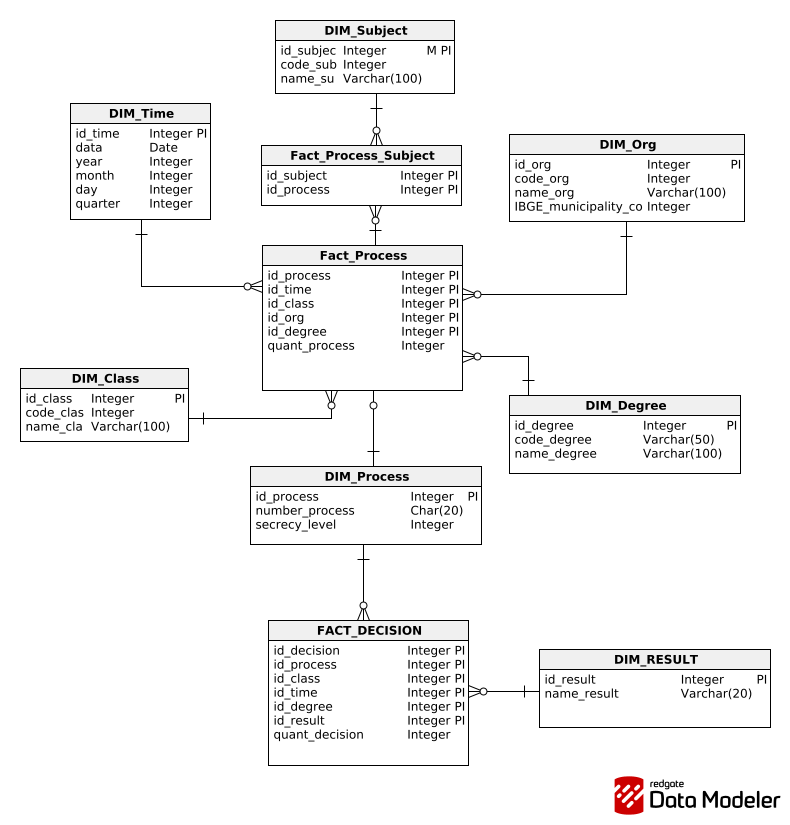
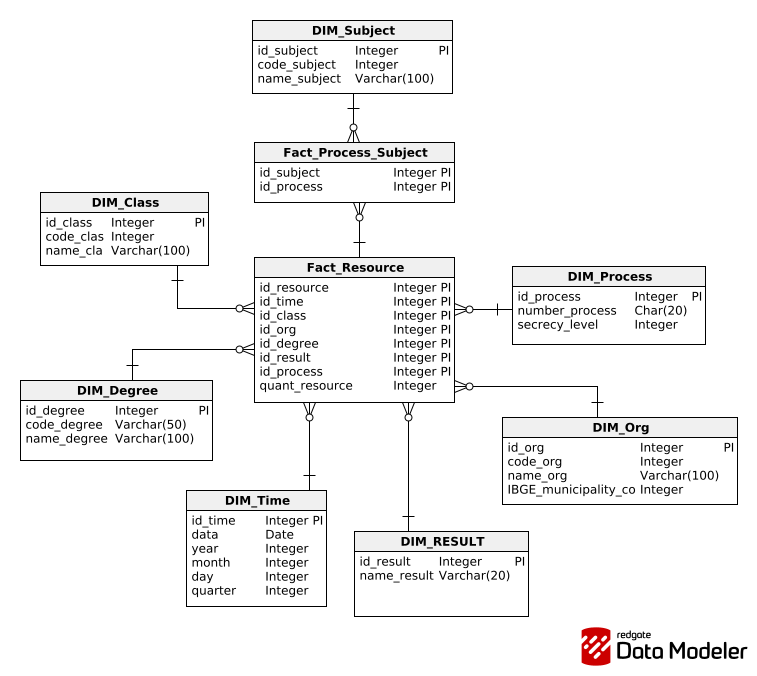
docs (Model Logic): Model logic updated and restructured

diff --git a/architecture/Dimensional-Model.md b/architecture/Dimensional-Model.md
@@ -13,7 +13,7 @@ included in story-level `Estimate`; see the
 
 ## Logical model
 
-<img src="assets/Model_Logic.png" width="700">
+<img src="assets/model_Logic.png" width="700">
 
 ## Physical model
 
